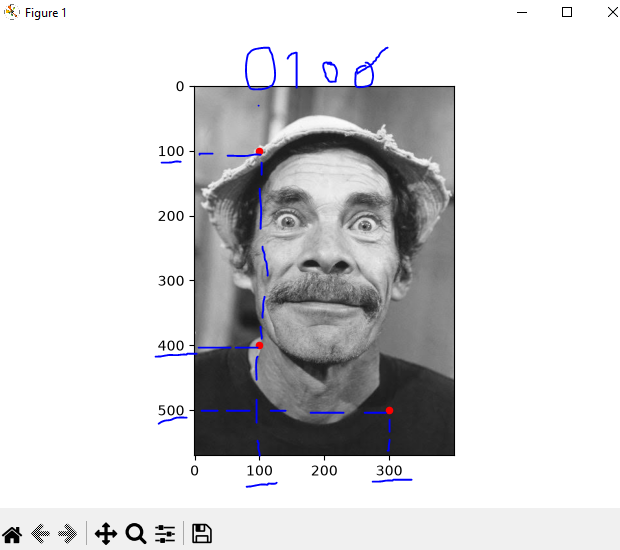
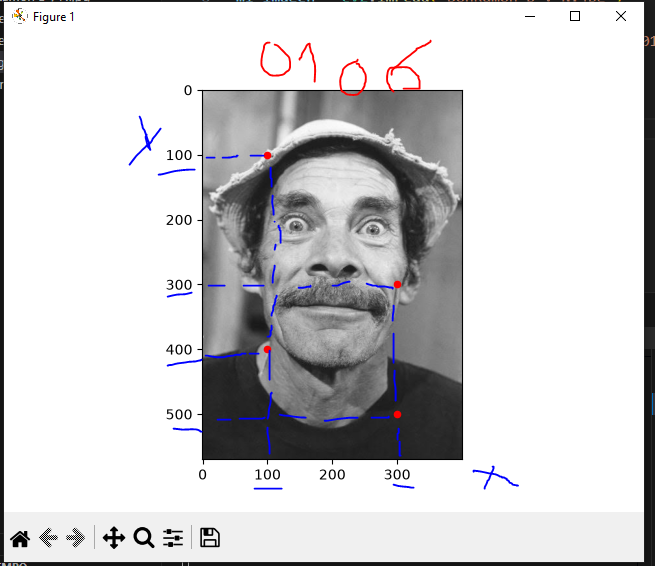
Add files via upload

Changed region(s): [[0.2145, 0.0618, 0.7968, 0.8964], [0.0, 0.0, 1.0, 1.0], [0.6435, 0.6491, 0.6742, 0.68]]

diff --git a/p3-fig-va-0106.py b/p3-fig-va-0106.py
@@ -11,7 +11,28 @@ plt.title("Don Ramon B y N y Samuel Nicola NC 0106")
 plt.show()
 print("-+-+-+- puntos en la imagen -+-+-+-")
 plt.imshow(mi_imagen)
-x = [100,100,300, 340]
+x = [100,100,300, 300]
 y = [100,400,500, 300]
 plt.scatter(x,y, s = 20,c="red")
+plt.show()
+print("-+-+-+- cuadro azul en la imagen -+-+-+-")
+img_DonRamon = cv2.imread("DonRamon B y N.jpg")
+plt.imshow(img_DonRamon)
+x = [100,100,300, 300,100]
+y = [500,100,100, 500,500]
+plt.plot(x,y, c ="blue")
+plt.show()
+print("-+-+-+- circulo verde en la imagen -+-+-+-")
+I = cv2.imread("DonRamon B y N.jpg")
+plt.imshow(I)
+N = 30 # Lados de el poligono
+x = np.zeros((N+1,))
+y = np.zeros((N+1,))
+(xc,yc) = (340,320)
+r = 150 # radio
+for i in range(N+1):
+  t   = 2*np.pi/N*i
+  x[i] = xc + r*np.cos(t)
+  y[i] = yc + r*np.sin(t)
+plt.plot(x, y, c="green")
 plt.show()

diff --git a/leeme.md b/leeme.md
@@ -2,3 +2,7 @@
 ![alt text](image.png)
 ## puntos en la imagen por coordenadas
 ![alt text](image-1.png)
+## coclocar cuadro azul
+![alt text](image-2.png)
+## colocar circulo verde a la imagen
+![alt text](image-3.png)
